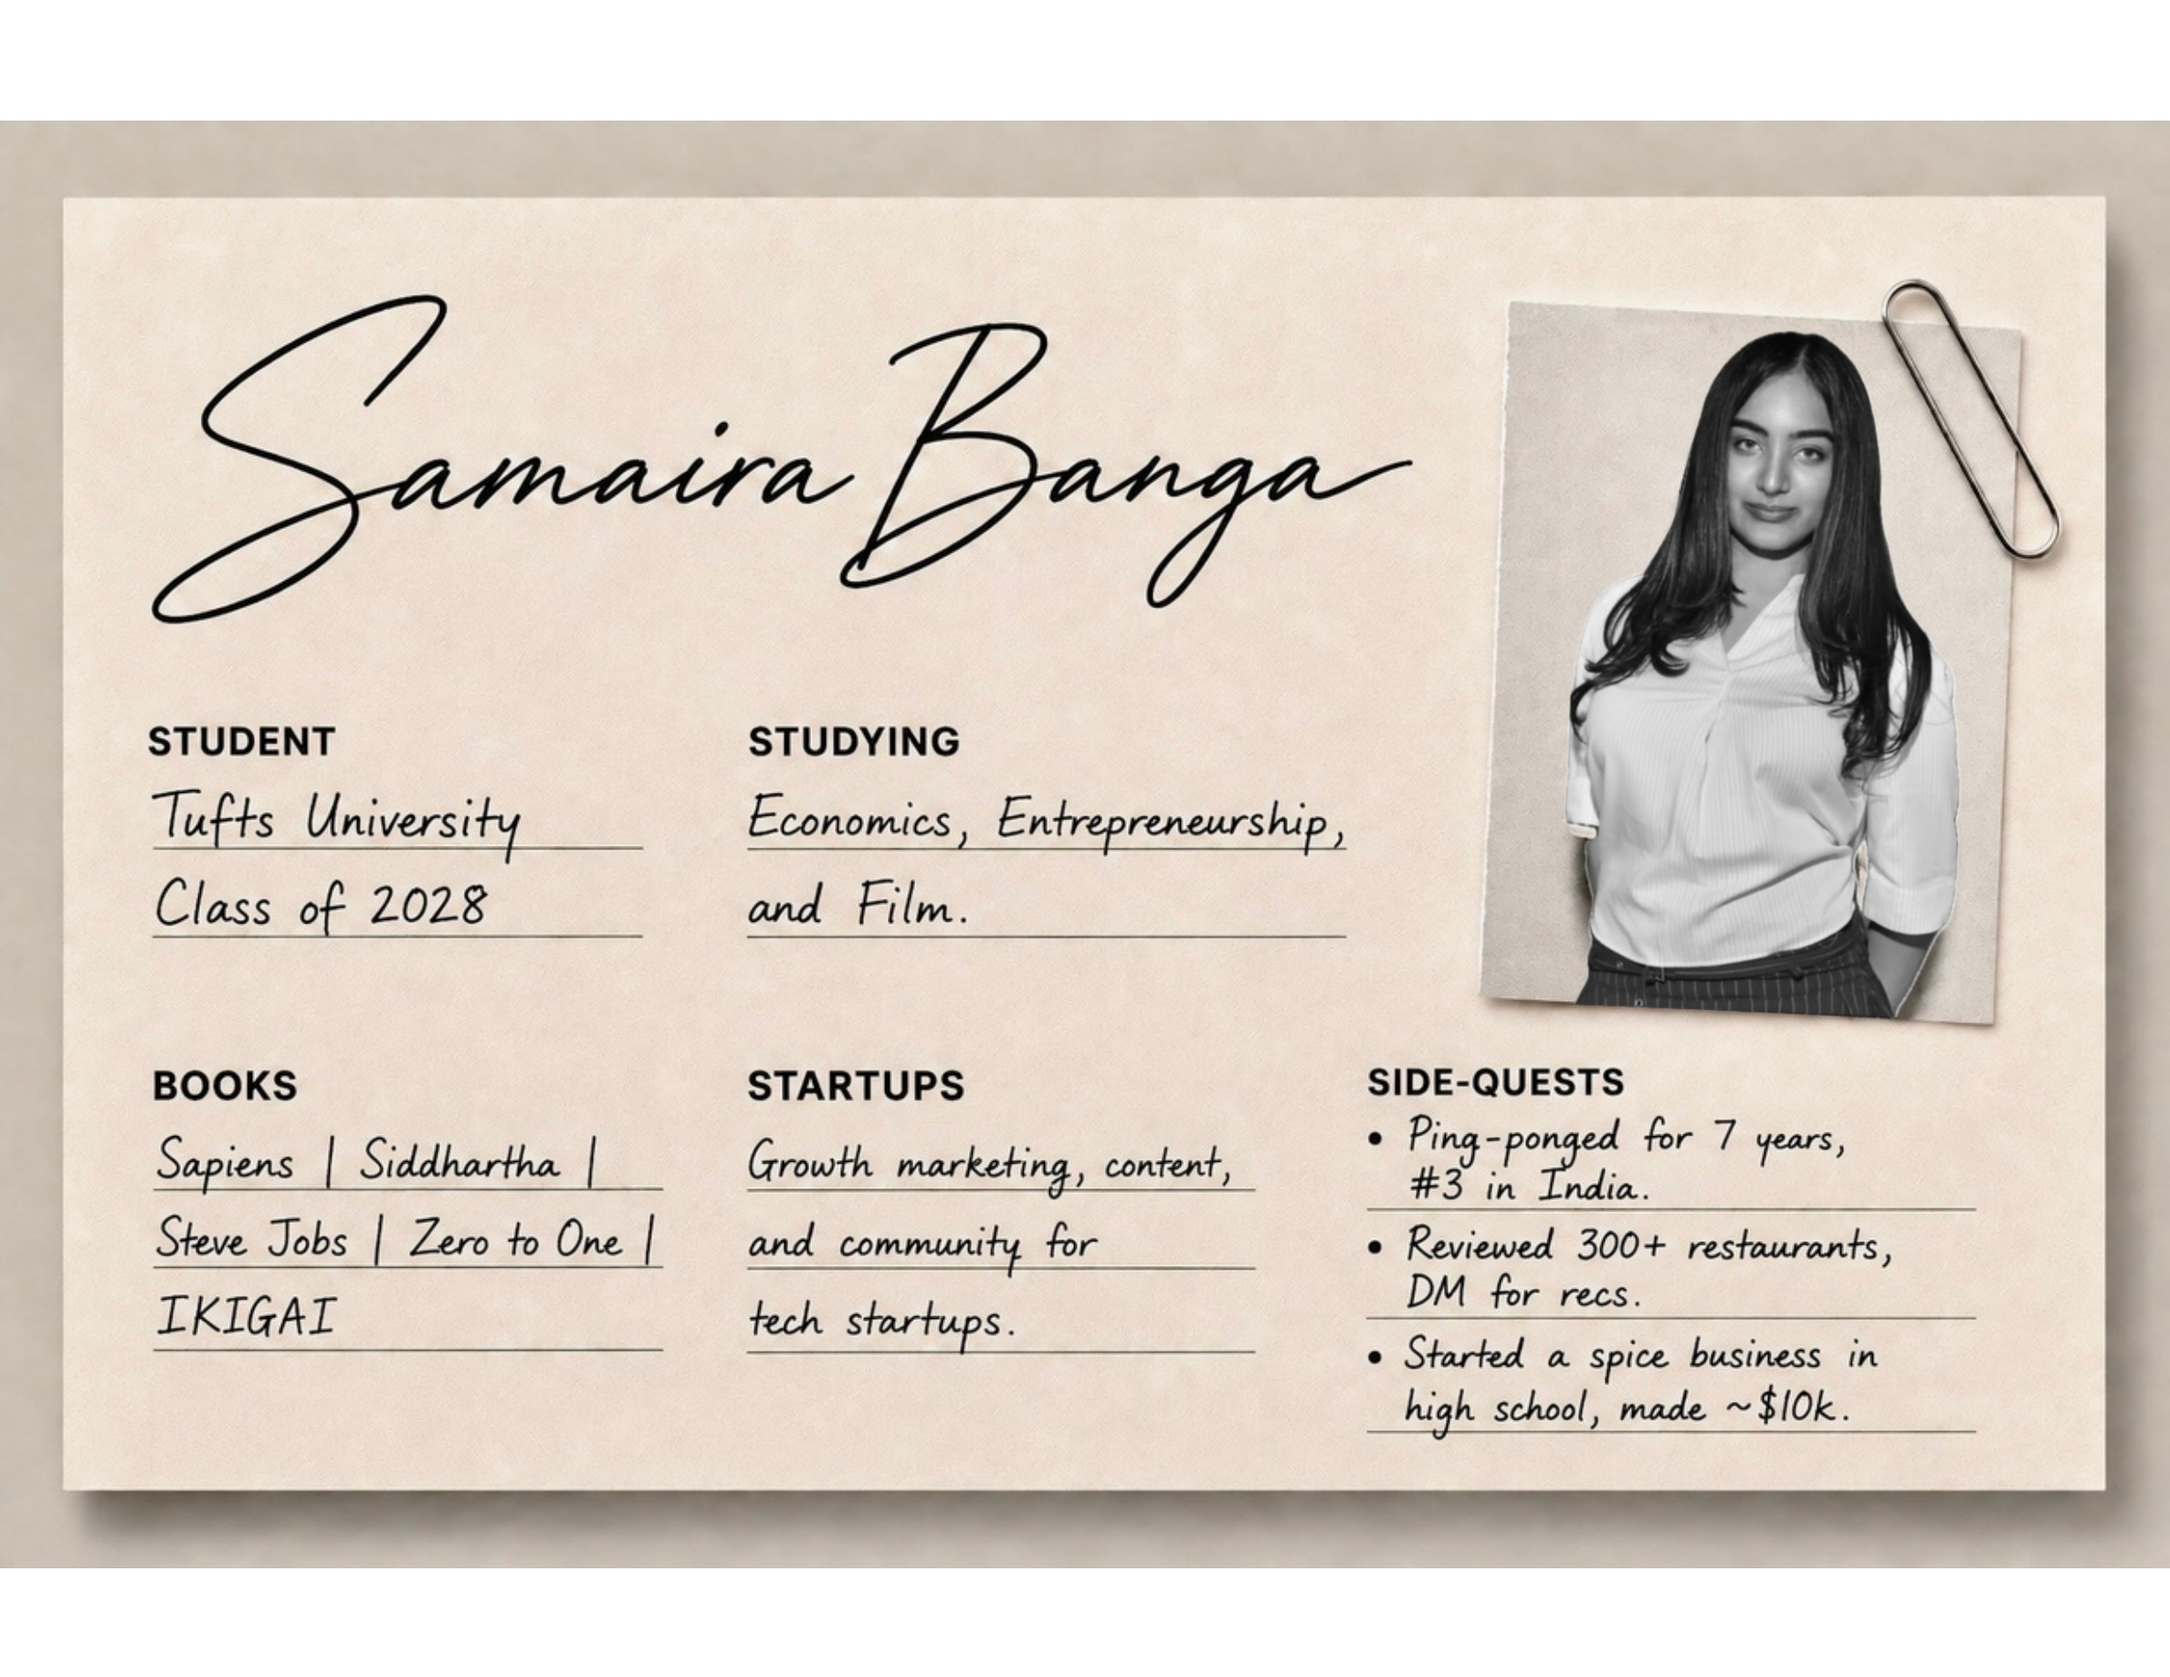
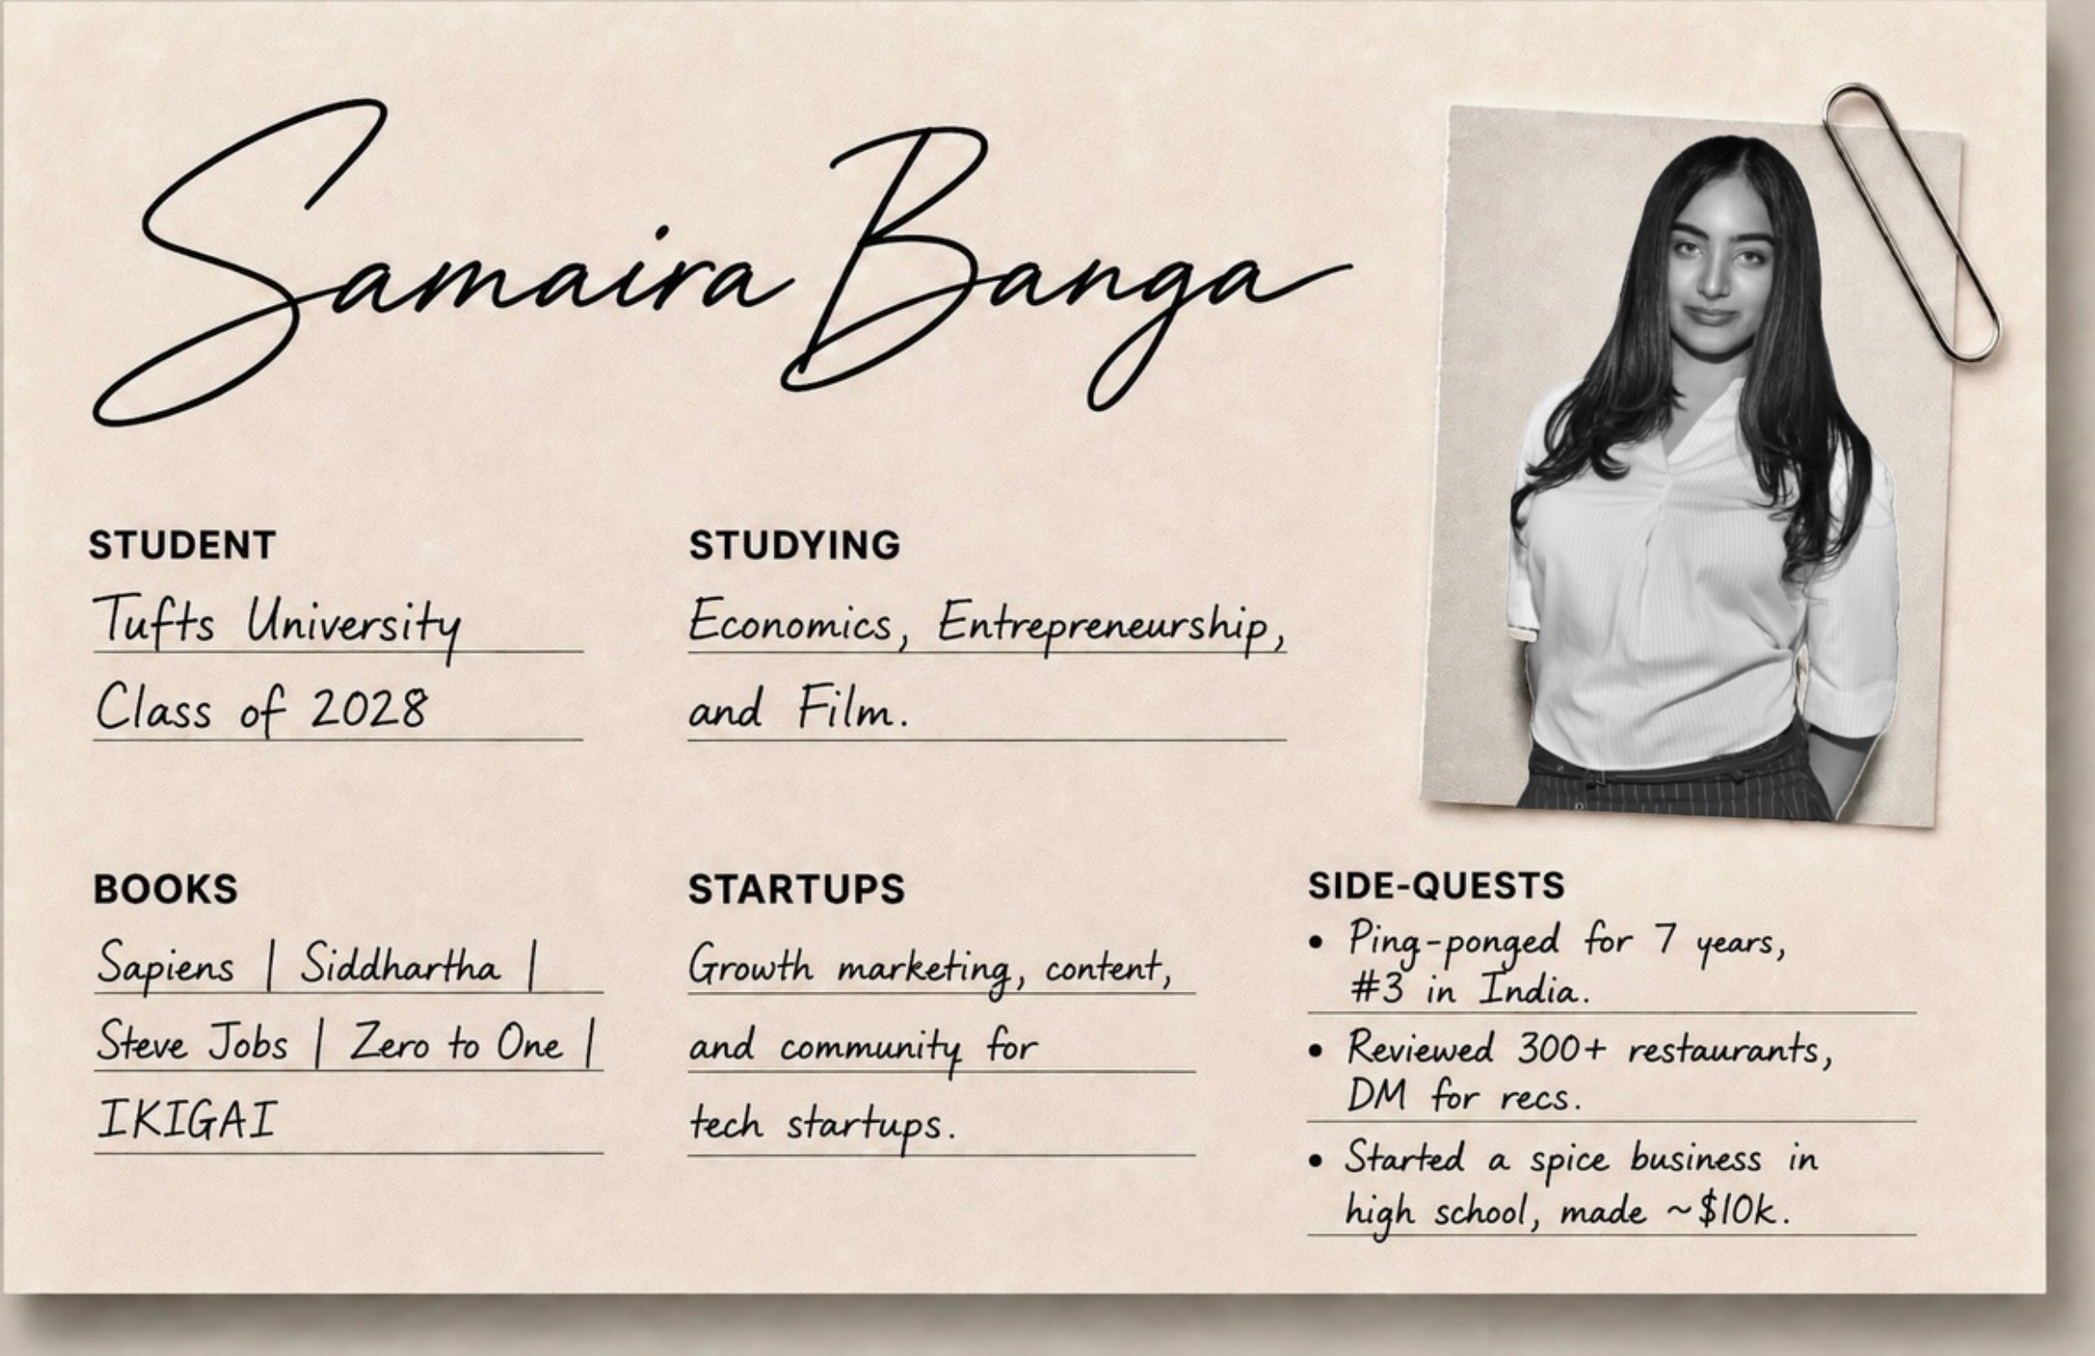
Remove home page footer, crop photo's outer border
- Dropped the footer bar entirely on the home page; the flex layout
  automatically lets the photo expand to fill that reclaimed space.
- Cropped about-newphoto.jpg to the designed card's actual edges
  (detected the white page margin and the gray background matting
  programmatically and trimmed both), so the image is edge-to-edge
  with no border showing through object-fit: contain.

diff --git a/index.html b/index.html
@@ -22,11 +22,5 @@
   <main class="home-main">
     <img class="about-hero" src="assets/about-newphoto.jpg" alt="Samaira Banga" />
   </main>
-
-  <footer class="site-footer">
-    <div class="wrap">
-      <span>&copy; 2026 Samaira Banga</span>
-    </div>
-  </footer>
 </body>
 </html>
